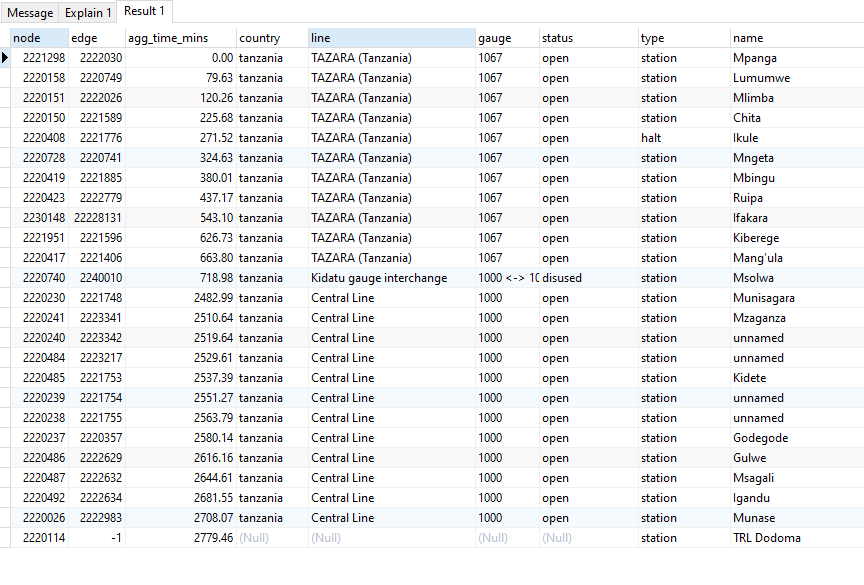
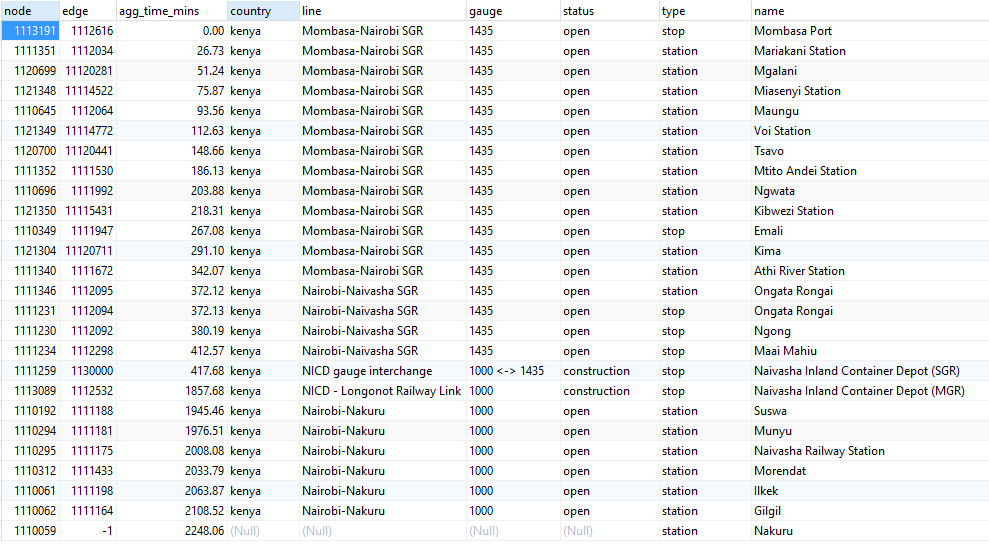
update readme

Changed region(s): [[0.0, 0.0, 1.0, 0.9714]]

diff --git a/data/rail/readme.md b/data/rail/readme.md
@@ -86,18 +86,20 @@ As the network includes lines that have a different statuses, edges should be se
 Example route *showing stations only*:
 
 ```sql
--- via the disused Kidatu gauge interchange TIZARA -> metre gauge (showing station edges only)
+-- via the NICD gauge Interchange (under construction)
+-- Nakuru SGR to Malaba (narrow gauge) 
+-- showing station edges only 
 		with tmp as (
 		SELECT X.*, a.country, a.line, a.gauge, a.time_freight, a.status, b.type, b.name FROM pgr_dijkstra(
                 'SELECT oid as id, source, target, time_freight AS cost FROM hvt_rail_network',
-                2221298,
-		2220114,
+                1113191,
+		1110059,
 		false
 		) AS X left join
 		hvt_rail_network as a on a.oid = X.edge left join
 		hvt_rail_nodes as b on b.oid = X.node
 		ORDER BY seq)
-		select node, edge, round(cost::numeric, 2) as time_mins, round(agg_cost::numeric, 2) as agg_time_mins, country, line, gauge, status, type, name from tmp where type in ('station', 'stop', 'halt')
+		select node, edge, round(agg_cost::numeric, 2) as agg_time_mins, country, line, gauge, status, type, name from tmp where type in ('station', 'stop', 'halt')
 		;
 ```
 
